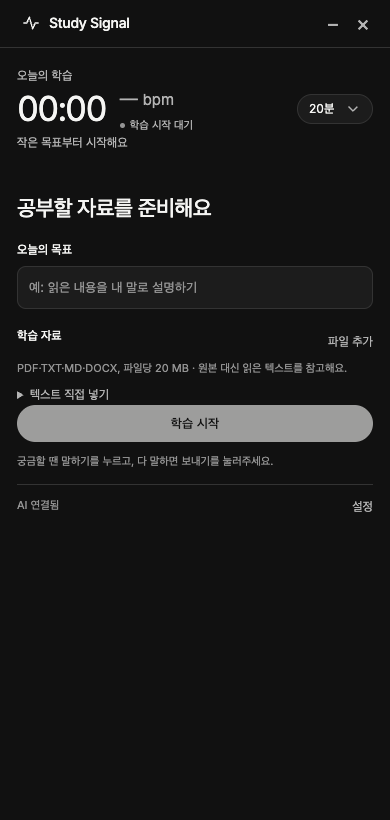
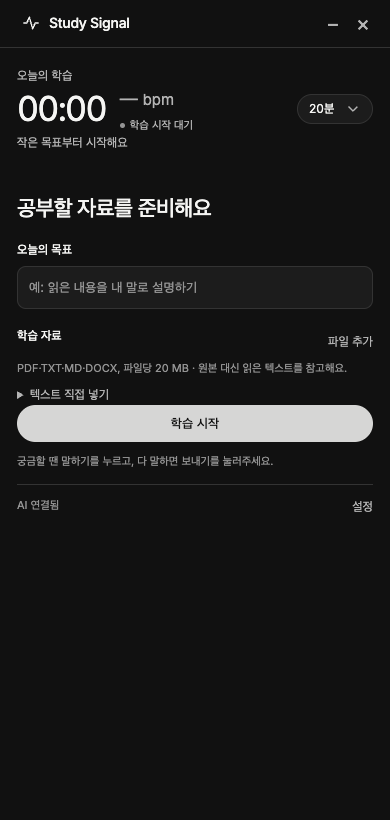
fix: request and repair macOS screen recording permission

Changed region(s): [[0.0308, 0.4878, 0.9538, 0.5488]]

diff --git a/overlay/index.html b/overlay/index.html
@@ -14,7 +14,7 @@
 <section id="settings" class="settings" hidden><div class="settings-heading"><h1>설정</h1><button id="settings-back" class="link" hidden>완료</button></div><p class="settings-intro">필요한 항목만 열어 바꿔주세요.</p>
 <details id="voice-settings" class="setting-group"><summary>음성 질문</summary><label class="voice-consent"><input id="voice-consent" type="checkbox"> 음성·현재 화면·첨부 자료를 OpenRouter로 전송</label><p>말하기를 누른 뒤 질문하고, 보내기를 누르세요. 현재 화면은 자동으로 함께 보내요.</p><label>학습 모니터 <select id="monitor" aria-label="학습 모니터"></select></label><label><input id="read-answer" type="checkbox"> 답변을 음성으로 읽기</label>
 <details id="speech-settings"><summary>목소리 설정</summary><label>읽어주는 음성 <select id="tts-mode"><option value="natural">자연스러운 AI 음성</option><option value="system">Mac 기본 음성 · 로컬</option></select></label><label>목소리 <select id="tts-voice"><option value="Aoede">아오이데 · 편안하게</option><option value="Kore">코레 · 또렷하게</option><option value="Charon">카론 · 차분하게</option></select></label><div><button id="tts-preview">미리 듣기</button><button id="tts-stop" hidden>읽기 멈춤</button></div><p id="tts-status">AI 음성은 읽을 문장을 OpenRouter로 보내요.</p></details>
-<details id="permission-settings"><summary>권한 확인 · 음성이 안 될 때</summary><p id="permission-status">마이크·화면 권한 확인 전</p><div class="permission-actions"><button id="permission-check">상태 확인</button><button id="permission-mic">마이크 설정</button><button id="permission-screen">화면 녹화 설정</button><button id="app-restart">앱 다시 시작</button></div><p>마이크와 화면 녹화 권한만 필요해요.</p></details><p class="helper">녹음과 화면은 저장하지 않고 질문·답변 텍스트만 남겨요.</p></details>
+<details id="permission-settings"><summary>권한 확인 · 음성이 안 될 때</summary><p id="permission-status">마이크·화면 권한 확인 전</p><p id="permission-app"></p><div class="permission-actions"><button id="permission-check">상태 확인</button><button id="permission-screen-test">화면 권한 요청·테스트</button><button id="permission-mic">마이크 설정</button><button id="permission-screen">화면 녹화 설정</button><button id="app-restart">앱 다시 시작</button><button id="permission-screen-reset">화면 권한 복구</button></div><p>마이크와 화면 녹화 권한만 필요해요. 허용해도 실패하면 ‘화면 권한 복구’를 누르세요. 이 앱의 화면 권한만 초기화하고 재시작해요. macOS에서 현재 앱을 다시 허용해야 해요. 테스트 화면은 저장하거나 서버로 보내지 않아요.</p></details><p class="helper">녹음과 화면은 저장하지 않고 질문·답변 텍스트만 남겨요.</p></details>
 <details id="focus-settings" class="setting-group"><summary>화면 이탈 알림</summary><label><input id="focus-enabled" type="checkbox" checked> 시선 이탈 알림 사용</label><p>점을 따라가는 과정 없이 화면을 향하는지 확인해요. 켠 뒤 화면을 편하게 바라보면 자동으로 준비돼요.</p><label>이탈 감도 <select id="focus-sensitivity"><option value="relaxed">여유롭게</option><option value="balanced" selected>보통</option><option value="sensitive">민감하게</option></select></label><label>알림 말투 <select id="nag-tone"><option value="playful">장난스럽게</option><option value="firm">단호하게</option><option value="notice">시각 알림만</option></select></label><label><input id="nag-mute" type="checkbox" checked> 잔소리 음소거</label><p>8초 이탈하면 알림, 20초면 음성으로 알려줘요. 필기·생각 중에는 알림에서 유예할 수 있어요.</p><p class="helper">화면 방향을 관찰해요. 딴생각이나 이해도를 판단하지 않아요.</p><button id="focus-reference" class="link" disabled>감지 다시 시작</button><section id="gaze-addon-settings"><p id="gaze-addon-status" role="status">설치 상태 확인 중…</p><progress id="gaze-addon-progress" max="100" value="0" hidden aria-label="시선 설치 진행률"></progress><button id="gaze-addon-install">시선 감지 설치…</button><button id="gaze-addon-cancel" class="link" hidden>설치 취소</button><p class="helper">선택 기능이에요. 설치하지 않아도 음성 질문은 사용할 수 있어요.</p></section><details id="camera-settings"><summary>카메라 확인</summary><section class="camera-preview" id="camera-preview" hidden><video id="camera" autoplay playsinline muted></video><p id="camera-instruction">카메라를 켜면 화면 방향을 확인해요.</p><p class="helper">영상은 이 Mac에서만 처리해요.</p></section></details></details>
 <details id="materials-manage" class="setting-group"><summary>학습 자료</summary><button id="materials-manage-add">자료 파일 추가</button><ul id="materials-manage-list" class="material-list"></ul><p id="materials-manage-note"></p><p>자료에서 읽은 텍스트를 질문할 때 함께 보내요. PDF 원본은 업로드하지 않아요.</p></details>
 <details id="plan-settings" class="setting-group"><summary>체크리스트</summary><label><input id="checklist-visible" type="checkbox" checked> 좌상단에 체크리스트 표시</label><label><input id="checklist-ai" type="checkbox"> 자료를 모델에 보내 학습 순서 정리</label><p>완료는 직접 체크하며, 자료별로 저장해요.</p><p id="checklist-status"></p><button id="checklist-regenerate">자료로 목록 다시 만들기</button><ol id="checklist-editor" class="checklist-editor"></ol></details>

diff --git a/tests/browser_ui_qa.py b/tests/browser_ui_qa.py
@@ -20,6 +20,8 @@ with sync_playwright() as p:
  window.pressOrReleaseShortcut=()=>{if(document.getElementById('voice-status').textContent.startsWith('녹음 중'))return window.voiceEvent({type:'release',data:window.recordId});window.recordId++;return window.voiceEvent({type:'start',data:{id:window.recordId,control:'button',attachment:{display_id:1,width:2880,height:1800}}});};
  window.studyBridge={ready:async()=>({ok:true,health:{study_model:{configured:true}}}),onDisplayChanged:cb=>window.displayChanged=cb,onLost:()=>{},onVoice:cb=>{window.voiceEvent=cb;},onAppAction:cb=>{window.appAction=cb;},
  window:async(action,data)=>{window.actions.push({action,data});
+ if(action==='permission-status')return {runtime:'Study Signal',version:'0.12.2',packaged:true,app_path:'/Applications/Study Signal.app',screen:'granted',microphone:'granted'};
+ if(action==='permission-screen-test')return {ok:true,width:2880,height:1800};
  if(action==='collapse'){window.collapsed=!window.collapsed;return window.collapsed;}
  if(action==='displays')return [{id:1,label:'모의 모니터',x:-1440,y:0,width:1440,height:900,scale:2}];
  if(action==='gaze-addon-status')return {installed:true,busy:false};if(action==='gaze-display')return {x:-1440,y:0,width:1440,height:900,display_id:1};
@@ -85,6 +87,7 @@ with sync_playwright() as p:
  assert page.evaluate('window.planBodies.at(-1).consent&&window.planBodies.at(-1).regenerate')
  page.locator('#checklist-visible').uncheck();assert page.evaluate("window.actions.filter(a=>a.action==='checklist-update').at(-1).data.visible") is False
  page.locator('#checklist-visible').check()
+ settings('permission-settings');page.locator('#permission-screen-test').click();page.wait_for_function("() => document.getElementById('permission-status').textContent.includes('캡처 테스트 성공')");assert '/Applications/Study Signal.app' in page.locator('#permission-app').inner_text()
  settings('voice-settings');page.locator('#read-answer').uncheck();settings('focus-settings');page.locator('#nag-mute').check();study()
  # Only direction evidence, no pixel coordinates or validated calibration.
  page.evaluate("()=>{const at=performance.now()+22000;for(let t=at-21000;t<=at;t+=100)window.injectGaze({at_ms:t,validated:false,validity:'unknown',pose_ok:false,presence:{ready:true,state:'away',reason:'direction_away'}});}")
@@ -137,7 +140,7 @@ with sync_playwright() as p:
  assert not page.evaluate("window.actions.some(a=>a.action==='calibration-open'||a.action==='gaze-visible'||a.action==='materials-example')")
  assert not page.evaluate("window.actions.some(a=>a.action==='voice-shortcut-guide'||a.action==='voice-configure')")
  assert not errors,errors
- passed=['pad text query attaches screen and receives answer','failed Start request can be retried','start button ready and clickable','start again after ending','removed calibration and validation UI','removed built-in paper demo','legacy region preference migrated','file upload creates checklist','manual checklist completion and edit','AI plan regeneration consent','checklist visibility','settings separate from study','six collapsed settings groups','390/440px no horizontal overflow','uncalibrated direction triggers away alert','false alarm grace','click begins WebM recording','send click submits frozen screen question','cancel discards recording','automatic full display without a region selector','voice response saved to scratchpad','translation summary saved','cancelled pad request interrupted','natural TTS plays','voice preference saved','recording stops TTS','collapsed recording indicator','session pause/end','API key cleared after save','no raw key in localStorage']
+ passed=['screen permission probe and precise installed app path','pad text query attaches screen and receives answer','failed Start request can be retried','start button ready and clickable','start again after ending','removed calibration and validation UI','removed built-in paper demo','legacy region preference migrated','file upload creates checklist','manual checklist completion and edit','AI plan regeneration consent','checklist visibility','settings separate from study','six collapsed settings groups','390/440px no horizontal overflow','uncalibrated direction triggers away alert','false alarm grace','click begins WebM recording','send click submits frozen screen question','cancel discards recording','automatic full display without a region selector','voice response saved to scratchpad','translation summary saved','cancelled pad request interrupted','natural TTS plays','voice preference saved','recording stops TTS','collapsed recording indicator','session pause/end','API key cleared after save','no raw key in localStorage']
  (root/'docs/qa/browser-qa.json').write_text(json.dumps(dict(passed=passed,page_errors=errors,environment='headless system Chrome; synthetic microphone and direction; mocked native bridge. No physical accuracy claims.'),ensure_ascii=False,indent=2))
  print(f'Browser UI: {len(passed)} workflows passed; no page errors')
  browser.close()

diff --git a/tests/native_screen_permission_qa.py b/tests/native_screen_permission_qa.py
@@ -1,0 +1,36 @@
+"""Probe the installed app screen permission. No pixels stored or sent to an API."""
+from pathlib import Path
+import argparse,json,os,signal,socket,subprocess,tempfile,time
+from playwright.sync_api import sync_playwright
+root=Path(__file__).resolve().parents[1]
+parser=argparse.ArgumentParser();parser.add_argument('--probe',action='store_true');parser.add_argument('--report',default='screen-permission.json');args=parser.parse_args()
+qa=Path(tempfile.mkdtemp(prefix='screen-permission-',dir=root/'.build'))
+with socket.socket() as sock:sock.bind(('127.0.0.1',0));port=sock.getsockname()[1]
+log=(root/'.build/native-screen-permission.log').open('w')
+process=subprocess.Popen(['/usr/bin/open','-W','-a','/Applications/Study Signal.app','--args',f'--remote-debugging-port={port}'],cwd=root,stdout=log,stderr=subprocess.STDOUT,start_new_session=True)
+try:
+ with sync_playwright() as p:
+  for _ in range(60):
+   try:browser=p.chromium.connect_over_cdp(f'http://127.0.0.1:{port}',timeout=1000);break
+   except Exception:
+    if process.poll() is not None:raise RuntimeError('QA app exited')
+    time.sleep(.2)
+  else:raise RuntimeError('QA port not ready')
+  discovery=browser.new_browser_cdp_session();page=None
+  for _ in range(60):
+   page=next((page for context in browser.contexts for page in context.pages if page.url=='study://app/index.html'),None)
+   if page:break
+   discovery.send('Target.getTargets');time.sleep(.1)
+  if not page:raise RuntimeError('Main renderer missing')
+  page.wait_for_function("() => !document.getElementById('start').disabled",timeout=30000)
+  status=page.evaluate("window.studyBridge.window('permission-status')")
+  result={'version':status['version'],'runtime':status['runtime'],'packaged':status['packaged'],'installed_path_correct':status['app_path']=='/Applications/Study Signal.app','screen_before':status['screen'],'probe_attempted':args.probe,'screen_pixels_saved':False,'external_model_called':False}
+  if args.probe:
+   probe=page.evaluate("async()=>{try{return await window.studyBridge.window('permission-screen-test')}catch(e){return {ok:false,error:e.message}}}")
+   result['probe']=probe
+   result['screen_after']=page.evaluate("window.studyBridge.window('permission-status')")['screen']
+  (root/'.build'/args.report).write_text(json.dumps(result,ensure_ascii=False,indent=2)+'\n');print(json.dumps(result,ensure_ascii=False))
+finally:
+ if process.poll() is None:
+  subprocess.run(['/usr/bin/osascript','-e','tell application id \"dev.studysignal.mac\" to quit'],capture_output=True,timeout=10)
+ process.wait(timeout=10);log.close()

diff --git a/README.md b/README.md
@@ -1,4 +1,4 @@
-# Study Signal v0.12.1 · 화면 번역과 스크래치패드
+# Study Signal v0.12.2 · 화면 번역과 스크래치패드
 
 좌상단 반투명 스크래치패드에 **화면 번역·요약·메모를 모읍니다**. 말하기 버튼으로 화면 내용을 질문하고 같은 채팅창에서 답변을 확인하며 **화면 응시·이탈 상태**를 확인합니다. 텍스트 질문과 음성 질문을 작은 좌상단 채팅창에서 이어갑니다. 메뉴 막대의 파형 시그널 아이콘으로 설정을 엽니다.
 
@@ -10,7 +10,7 @@
 
 ## 실행과 사용
 
-Mac 설치판은 `Study-Signal-0.12.1-arm64.dmg`입니다. Apple Silicon·macOS 15 이상용으로 음성·번역용 기본 런타임을 포함하며 시선 모델과 PyTorch는 포함하지 않습니다. 기본 DMG는 약 168 MB이며 시선 기능은 나중에 선택 설치합니다. DMG의 앱을 Applications로 옮겨 실행하고, 메뉴 막대 아이콘 또는 ⌘,에서 API 키를 입력합니다. 설정·보정·기록은 앱 밖의 Application Support에 유지합니다. Apple 공증 전의 개발 빌드입니다. 자세한 내용은 [Mac 설치 안내](docs/macos.md)를 보세요.
+Mac 설치판은 `Study-Signal-0.12.2-arm64.dmg`입니다. Apple Silicon·macOS 15 이상용으로 음성·번역용 기본 런타임을 포함하며 시선 모델과 PyTorch는 포함하지 않습니다. 기본 DMG는 약 168 MB이며 시선 기능은 나중에 선택 설치합니다. DMG의 앱을 Applications로 옮겨 실행하고, 메뉴 막대 아이콘 또는 ⌘,에서 API 키를 입력합니다. 설정·보정·기록은 앱 밖의 Application Support에 유지합니다. Apple 공증 전의 개발 빌드입니다. 자세한 내용은 [Mac 설치 안내](docs/macos.md)를 보세요.
 
 아래는 소스에서 실행하는 방법입니다.
 
@@ -82,7 +82,7 @@ UniGaze-L 체크포인트는 선택 시선 패키지에만 포함되며 약 1.22
 
 얼굴 영상·랜드마크·원시 시선·녹음·자동 캡처·이미지 프롬프트는 기본 기록에 저장하지 않습니다. 스크래치패드의 메모와 AI 결과 텍스트는 기기에 저장하며 패드에서 삭제할 수 있습니다. 질문할 때만 음성·선택 모니터 화면·첨부 자료의 추출 텍스트를 OpenRouter로 보냅니다. 첨부 텍스트는 앱 로컬 저장소와 세션 자료에 남으며 자료 관리에서 제거할 수 있습니다. 질문/답변 텍스트와 집계 이벤트는 `data/study`에 남습니다. 이전 버전이 남긴 정밀 보정은 현재 앱에서 불러오거나 사용하지 않습니다. 화면 기반 답변은 파인튜닝 예시로 내보내지 않습니다.
 
-- v0.12: Node 75개, 메인 UI 30개, 채팅 UI 17개, 경고 UI 8개 통과. 실제 마이크 입력·사람별 오탐은 별도 확인이 필요합니다.
+- v0.12.2: Node 80개, 메인 UI 31개, 채팅 UI 17개, 경고 UI 8개 통과. 실제 마이크 입력·사람별 오탐은 별도 확인이 필요합니다.
 - 선택 설치 UI 8개, 실제 패키지 설치와 MPS 모델 준비, 시선 없이 실제 OpenRouter 음성 질문 약 5.31초 확인. 메인 UI 30개 흐름 통과. 스크래치패드 UI 12개 시나리오 통과: 메모·초안 복원·자료 연결·중복 업로드 차단·디자인 일치·고정·번역/요약·복사·삭제·안전한 렌더링·창 크기.
 - 실제 OpenRouter 합성 한국어 음성→직접 만든 영문 화면 번역＋요약 약 6.47초. 120 ns·80 ns·40 ns·33.3% 보존 확인. 사용자 논문 PDF는 이 호출에 보내지 않았습니다.
 - 사람의 마이크·OS 캡처 종합 시험, 정상 학습 오탐률은 남아 있습니다. [스크래치패드 검증](docs/scratchpad.md) · [TTS 검증](docs/tts.md).
@@ -94,3 +94,5 @@ UniGaze-L 체크포인트는 선택 시선 패키지에만 포함되며 약 1.22
 음성 읽기는 기본 꺼짐입니다. 직접 켜면 `google/gemini-3.8-flash-tts` / Aoede를 사용합니다. 설정에서 목소리 선택·미리 듣기·Mac 기본 음성 전환을 할 수 있습니다. 앱의 **읽기 멈춤** 또는 새 질문 시작으로 재생을 멈춥니다. AI 음성은 읽을 문장을 기존 OpenRouter 계정으로 전송하며 별도 사용료가 발생합니다. 생성 음성은 디스크에 저장하지 않습니다.
 
 설정의 모든 셀렉트는 study-select.mjs 공통 컴포넌트를 사용한다. 어두운 팝업, 화살표 중앙 정렬, 키보드 탐색/선택·취소, 비활성 옵션, 모니터 목록 갱신을 지원하며 기존 설정 값과 이벤트를 그대로 사용한다. [UI 검증](docs/qa/study-select.json). 기존 로컬 심박 수집기의 /hr 응답과 선택 자동 연결도 지원한다. [심박 서버](docs/heart-server.md).
+
+화면 권한을 허용해도 실패하면 [설치판 권한 복구](docs/screen-permission.md)를 참고하세요. 수정판에는 실제 캡처 테스트와 앱별 ScreenCapture 기록 초기화가 포함됩니다.

diff --git a/docs/macos.md b/docs/macos.md
@@ -1,6 +1,6 @@
-# Mac에서 사용하기 · v0.12.1
+# Mac에서 사용하기 · v0.12.2
 
-`학습 보조 실행.command`를 실행하면 메뉴 막대와 좌상단 학습 창이 열린다. 질문·답변은 작은 채팅창에 모으고, 이탈 알림은 별도 빨간 다이얼로그로 나타난다. Python 3.13+/Node.js 22+, 기존 OpenRouter 키가 필요하다. 기본 실행에는 신경망 모델을 다운로드하지 않는다. 소스 실행과 v0.12.1 Apple Silicon DMG 개발 설치판을 제공한다. Apple Developer ID 서명·공증은 포함하지 않는다.
+`학습 보조 실행.command`를 실행하면 메뉴 막대와 좌상단 학습 창이 열린다. 질문·답변은 작은 채팅창에 모으고, 이탈 알림은 별도 빨간 다이얼로그로 나타난다. Python 3.13+/Node.js 22+, 기존 OpenRouter 키가 필요하다. 기본 실행에는 신경망 모델을 다운로드하지 않는다. 소스 실행과 v0.12.2 Apple Silicon DMG 개발 설치판을 제공한다. Apple Developer ID 서명·공증은 포함하지 않는다.
 
 ## 메뉴 막대
 
@@ -22,9 +22,9 @@ SVG 원본: `overlay/assets/StudySignalTemplate.svg`. macOS 표시에는 투명 
 
 음성 전역 단축키와 네이티브 키 후킹 SDK를 배포판에서 제거했다. 손쉬운 사용·입력 모니터링 권한은 음성 질문에 필요하지 않다. 최대 20초 제한은 자동 전송이 아니라 녹음 폐기다. 취소·권한 철회 때도 폐기한다. 얼굴 영상·녹음·화면은 기본 기록에 보관하지 않는다.
 
-## v0.12.1 DMG 설치판
+## v0.12.2 DMG 설치판
 
-`Study-Signal-0.12.1-arm64.dmg`는 Apple Silicon(M1 이상), macOS 15 이상용이다. DMG를 열어 Study Signal.app을 Applications로 옮겨 실행한다. Electron·가벼운 Python 백엔드를 포함해 Node.js/Homebrew/Python을 별도로 설치하지 않는다.
+`Study-Signal-0.12.2-arm64.dmg`는 Apple Silicon(M1 이상), macOS 15 이상용이다. DMG를 열어 Study Signal.app을 Applications로 옮겨 실행한다. Electron·가벼운 Python 백엔드를 포함해 Node.js/Homebrew/Python을 별도로 설치하지 않는다.
 
 설정은 **⌘,**(앱에 포커스가 있을 때) 또는 메뉴 막대 아이콘 → 설정에서 연다. OpenRouter 키를 입력하고 ‘저장 후 앱 다시 시작’을 누른다. 키 입력칸을 비우면 기존 키를 유지한다. 진행 중인 학습은 종료한 뒤 저장한다.
 
@@ -47,7 +47,7 @@ SVG 원본: `overlay/assets/StudySignalTemplate.svg`. macOS 표시에는 투명 
 
 [최종 시험 결과와 실기기 미검증 항목](qa-v08.md).
 
-## 자연스러운 음성 · v0.12.1
+## 자연스러운 음성 · v0.12.2
 
 음성 읽기는 기본 꺼짐이다. 직접 켜면 OpenRouter의 Gemini TTS를 사용한다. 연결 키는 기존 키 그대로다. 설정 → 음성 질문에서 아오이데/코레/카론 중 선택하고 미리 듣는다. 답변과 잔소리에 같은 목소리를 사용한다. 글 답변을 먼저 표시하고 음성을 준비한다. 버블의 읽기 멈춤·새 질문·휴식·동의 해제로 준비/재생 중인 음성을 취소한다. 늦게 도착한 응답은 재생하지 않는다. 오류 때 기본 음성으로 몰래 전환하지 않으며 글 답변을 유지한다.
 
@@ -68,3 +68,7 @@ SVG 원본: `overlay/assets/StudySignalTemplate.svg`. macOS 표시에는 투명 
 ## 시간·심박 표시
 
 학습 창의 시간·심박수 옆에 시선 상태를 표시한다. 창을 접어도 같은 상태가 보인다. 채팅창 위에는 상태를 표시하지 않는다. 기존 로컬 수집기 자동 연결 설정을 유지한다. 20초 넘게 갱신되지 않거나 연결이 끊기면 숫자 대신 — bpm을 표시한다. 장치 출처가 없는 기존 수집값은 collector로 구분한다.
+
+## 허용해도 화면 권한이 실패할 때
+
+설정 → 음성 질문 → 권한 확인에서 실행 위치가 /Applications/Study Signal.app인지 확인하고 ‘화면 권한 요청·테스트’를 누른다. 실패가 반복되면 ‘화면 권한 복구’로 이 앱의 ScreenCapture 기록만 초기화하고 macOS에서 현재 앱을 다시 허용한다. 초기화만으로 자동 허용되지는 않는다. [원인·복구·검증](screen-permission.md).

diff --git a/docs/screen-permission.md b/docs/screen-permission.md
@@ -1,0 +1,17 @@
+# 화면 녹화 권한 복구 · v0.12.2
+
+증상: macOS 설정에서 허용하고 재시작해도 화면 권한 오류가 반복된다.
+
+확인한 원인: 개발용 ad-hoc 서명의 designated requirement가 앱 버전의 cdhash에 묶여 있다. 업데이트 전 권한 기록과 현재 앱이 일치하지 않을 수 있다. 이 Mac에는 사용 가능한 Developer ID/Apple Development 서명 인증서가 없었다. 또한 기존 코드는 macOS의 denied 사전 판정에서 getSources 호출을 막아 최초 권한 요청에도 도달하지 못했다.
+
+수정: restricted는 계속 차단하고 denied/미결정에서는 Electron의 정식 화면 캡처 API로 OS 권한 요청을 시도한다. 요청 뒤 granted 상태와 유효한 캡처를 모두 확인해야만 질문을 보낸다. 요청이 8초 안에 돌아오지 않아도 앱 창은 복원하고 늦은 프레임은 사용하지 않는다. 마이크·화면 권한 철회 시 전송 차단도 유지한다.
+
+설정 → 음성 질문 → 권한 확인에서 현재 실행 앱의 버전·위치와 권한 상태를 확인한다. ‘화면 권한 요청·테스트’는 질문이나 마이크 없이 실제 화면 캡처가 되는지만 검사한다. 픽셀은 반환·저장·서버 전송하지 않는다.
+
+허용 상태가 꼬이면 ‘화면 권한 복구’를 사용한다. 설치판에서만 `/usr/bin/tccutil reset ScreenCapture dev.studysignal.mac`을 실행하고 설정을 연 뒤 현재 설치판을 재시작한다. 다른 앱, 카메라, 마이크 권한은 건드리지 않는다. 복구는 권한을 자동 허용하는 작업이 아니며 사용자가 현재 앱을 macOS에서 다시 허용해야 한다. 설정에 오래된 Study Signal 항목이 남으면 해당 항목을 제거하고 /Applications/Study Signal.app을 다시 추가한다.
+
+정식 배포에서 업데이트 간 권한을 유지하려면 같은 개발자 서명 신원을 사용하는 빌드가 필요하다. 식별자만 검사하도록 서명 요구사항을 약화하거나 TCC 데이터베이스를 직접 수정하지 않는다. 현재 ad-hoc 빌드에서 이후 업데이트의 권한 보존을 보장하지 않는다.
+
+검증: 거절 상태에서도 OS 요청 도달, 거절·정책 제한 시 미전송, 허용 후 로컬 캡처 테스트, 응답 지연 시 창 복원, 캡처 후 권한 철회 시 미전송, 앱별 ScreenCapture만 초기화를 단위 시험한다. 실기기 허용/캡처 결과는 qa/release-v0122.json을 따른다.
+
+근거: [Apple: code requirements와 권한 신원](https://developer.apple.com/documentation/technotes/tn3127-inside-code-signing-requirements), [Electron desktopCapturer](https://www.electronjs.org/docs/latest/api/desktop-capturer), [권한 상태와 재시작](https://www.electronjs.org/docs/latest/api/system-preferences).

diff --git a/docs/development-plan.md b/docs/development-plan.md
@@ -1,4 +1,4 @@
-# Study Signal v0.12.1 구현 상태
+# Study Signal v0.12.2 구현 상태
 
 현재 중심 흐름은 **작은 채팅창 + 클릭 음성·텍스트 화면 질문**이다. 로컬/GPU 학습과 파인튜닝 API 조사는 사용자 요청으로 중단했다. 기본 추론은 기존 OpenRouter 계정을 사용한다. 실제 학습된 개인 모델은 없다.
 
@@ -15,4 +15,4 @@
 
 추가 완료: 기본 DMG에서 시선 모델/PyTorch/OpenCV 제거, 앱 설정의 시선 패키지 설치·검증·취소·진행률, 설치 전 카메라 자동 시작 차단. 실제 분리 패키지 설치와 MPS 준비, 기본판의 OpenRouter 음성 질의·화면/PDF 설명을 확인했다. [선택 설치](optional-gaze.md)
 
-추가 검증: v0.12.1 Node 75개·메인 UI 30개·채팅 UI 17개·경고 UI 8개, DMG에서 /Applications 실제 설치 및 네이티브 창 시험 통과. 음성/텍스트 화면 자동 첨부, 음성 읽기 기본 꺼짐, 음성 단축키 미등록, 채팅·경고창 비중첩을 확인했다. 실제 심박 상태와 설치 메타데이터는 qa/release-v0121.json에 기록한다.
+추가 검증: v0.12.2 Node 80개·메인 UI 31개 통과. 수정 DMG를 /Applications에 설치하고 Launch Services로 실행한 실제 설치판에서 화면 권한 denied를 확인했다. 이 앱의 ScreenCapture 기록만 초기화하고 OS 재허용을 요청했다. 재허용 후 캡처 성공은 아직 확인하지 않았으며 qa/release-v0122.json에 상태를 기록한다. v0.12.1의 채팅·경고창 비중첩 네이티브 시험 기록은 별도로 유지한다.

diff --git a/docs/scratchpad.md b/docs/scratchpad.md
@@ -1,4 +1,4 @@
-# 작은 채팅창 · v0.12.1
+# 작은 채팅창 · v0.12.2
 
 평소에는 340×116 DIP의 반투명 창에 질문 입력칸과 채팅하기·말하기 버튼을 둔다. 시간·심박수·시선 상태는 별도 학습 창에 모으며 채팅 위에는 표시하지 않는다. 텍스트 질문은 버튼 또는 Enter로 보낸다. Shift+Enter는 줄바꿈이다. 음성은 말하기를 클릭해 시작하고 보내기를 클릭해 전송한다. 음성 전역 단축키는 제거했다.
 

diff --git a/docs/product-prd.md b/docs/product-prd.md
@@ -1,4 +1,4 @@
-# Study Signal v0.12.1 제품 기획
+# Study Signal v0.12.2 제품 기획
 
 macOS 브라우저·PDF 학습자를 위한 메뉴 막대 앱과 반투명 채팅창. 정확한 글자 위치 추적은 필수 흐름에서 제외하고, 음성 질문과 화면 응시·이탈 신호를 제공한다.
 
